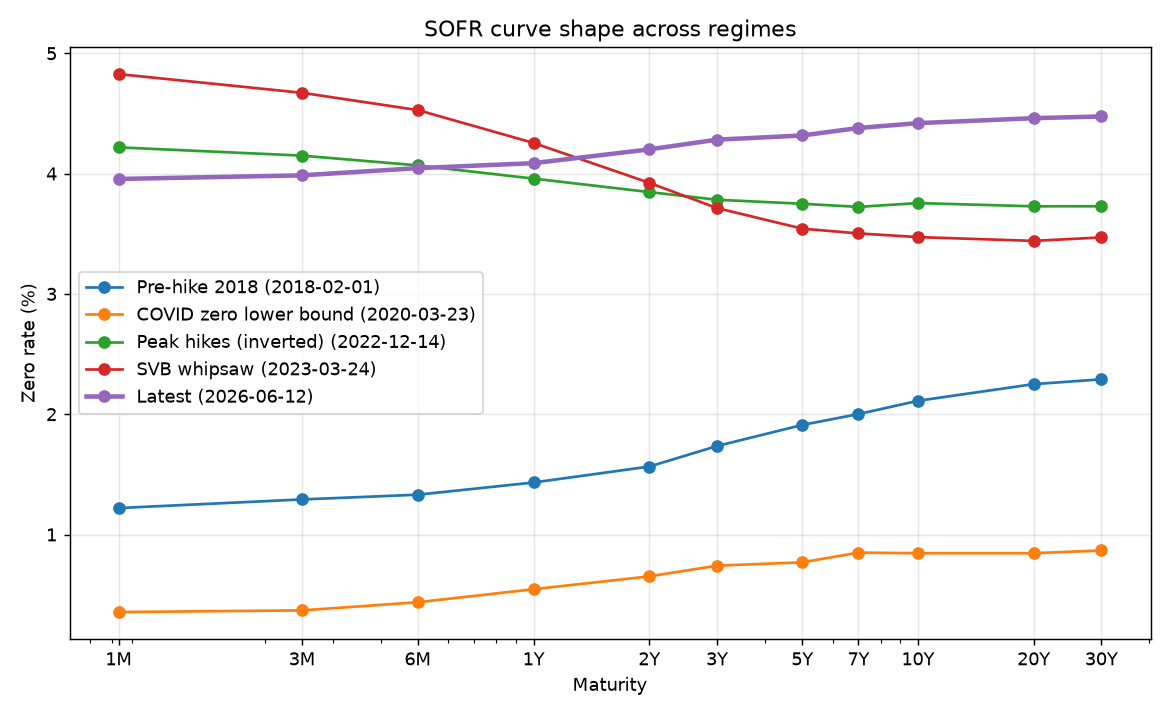
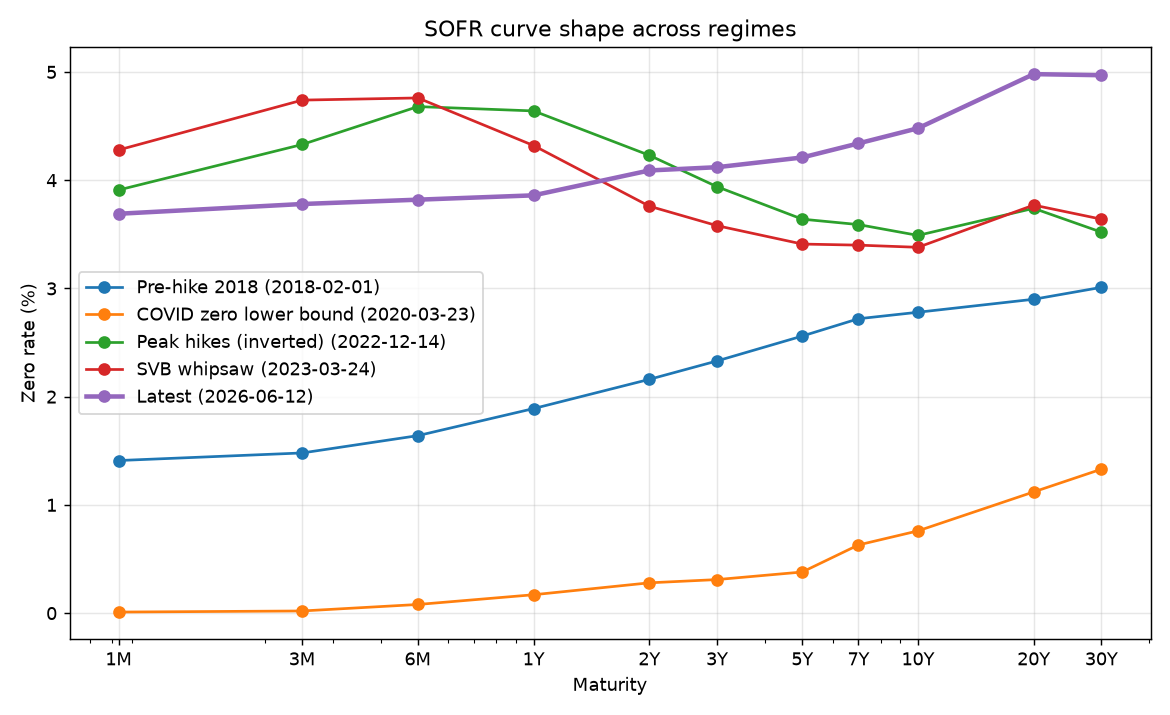
main: save Phase 1 metrics to results/phase1_metrics.txt + curve history CSV

diff --git a/main.py b/main.py
@@ -28,7 +28,9 @@ from ird.core.conventions import tenor_to_years  # noqa: E402
 from ird.data.fetch_sofr import build_dataset  # noqa: E402
 from ird.data.validation import validate_history  # noqa: E402
 
-FIG_DIR = Path(__file__).resolve().parent / "figures"
+ROOT = Path(__file__).resolve().parent
+FIG_DIR = ROOT / "figures"
+RESULTS_DIR = ROOT / "results"
 
 # Representative dates -> regime label, for the curve-shape plot.
 REGIMES = {
@@ -93,6 +95,47 @@ def plot_2s10s(df, out: Path) -> None:
     plt.close(fig)
 
 
+def build_summary(df, report, source: str, has_key: bool) -> str:
+    """Assemble a human-readable, reproducible metrics report as a string."""
+    spread = (df["10Y"] - df["2Y"]) * 100
+    latest = df.iloc[-1]
+    lines = [
+        "=" * 56,
+        "IRD Pricing Engine - Phase 1 metrics",
+        "=" * 56,
+        f"Generated         : {dt.datetime.now().isoformat(timespec='seconds')}",
+        f"Data source        : {source}  (FRED key detected: {has_key})",
+        "",
+        "--- Dataset ---",
+        f"Curve dates stored : {len(df):,}",
+        f"Date range         : {df.index.min().date()} -> {df.index.max().date()}",
+        f"Pillars            : {', '.join(df.columns)}",
+        f"Rate range         : {df.min().min() * 100:.2f}% to {df.max().max() * 100:.2f}%",
+        "",
+        "--- Validation ---",
+        f"NaN cells          : {report.nan_cells}",
+        f"Missing bus. days  : {len(report.missing_business_days)}",
+        f">150bp jump flags  : {len(report.large_jumps)}",
+        f"Inverted days      : {len(report.inverted_dates):,}",
+        f"Clean              : {report.nan_cells == 0 and not report.missing_business_days}",
+        "",
+        "--- 2s10s slope (10Y - 2Y, %) ---",
+        f"Min (most inverted): {spread.min():.2f}  on {spread.idxmin().date()}",
+        f"Max (steepest)     : {spread.max():.2f}  on {spread.idxmax().date()}",
+        f"Latest             : {spread.iloc[-1]:.2f}",
+        "",
+        "--- Per-tenor (mean / min / max / latest, %) ---",
+    ]
+    for t in df.columns:
+        col = df[t] * 100
+        lines.append(
+            f"  {t:>4} : mean {col.mean():5.2f}   min {col.min():5.2f}   "
+            f"max {col.max():5.2f}   latest {latest[t] * 100:5.2f}"
+        )
+    lines.append("")
+    return "\n".join(lines)
+
+
 def main(argv: list[str] | None = None) -> int:
     parser = argparse.ArgumentParser(description=__doc__)
     parser.add_argument("--source", choices=["auto", "fred", "synthetic"], default="auto")
@@ -110,23 +153,23 @@ def main(argv: list[str] | None = None) -> int:
     df = store.read_history()
     report = validate_history(df)
 
-    print("\n=== Phase 1 results ===")
-    print(f"Curve dates stored : {len(df):,}")
-    print(f"Date range         : {df.index.min().date()} -> {df.index.max().date()}")
-    print(f"Pillars            : {', '.join(df.columns)}")
-    print(f"Rate range         : {df.min().min() * 100:.2f}% to {df.max().max() * 100:.2f}%")
-    print(f"Inverted days      : {len(report.inverted_dates):,}")
-    print(f"Validation clean   : {report.nan_cells == 0 and not report.missing_business_days}")
-    latest = df.iloc[-1]
-    print("\nLatest curve (%):")
-    for t in df.columns:
-        print(f"  {t:>4} : {latest[t] * 100:5.2f}")
+    summary = build_summary(df, report, args.source, settings.has_fred_key)
+    print("\n" + summary)
+
+    RESULTS_DIR.mkdir(exist_ok=True)
+    metrics_path = RESULTS_DIR / "phase1_metrics.txt"
+    metrics_path.write_text(summary)
+    # Machine-readable copy of the full curve history for reproducibility.
+    df.to_csv(RESULTS_DIR / "phase1_curve_history.csv", index_label="date")
 
     FIG_DIR.mkdir(exist_ok=True)
     plot_curve_shapes(df, FIG_DIR / "01_curve_shapes.png")
     plot_rate_history(df, FIG_DIR / "02_rate_history.png")
     plot_2s10s(df, FIG_DIR / "03_2s10s_spread.png")
-    print(f"\nSaved 3 figures to {FIG_DIR}/")
+
+    print(f"\nSaved metrics  -> {metrics_path}")
+    print(f"Saved data     -> {RESULTS_DIR / 'phase1_curve_history.csv'}")
+    print(f"Saved 3 figures -> {FIG_DIR}/")
     return 0
 
 